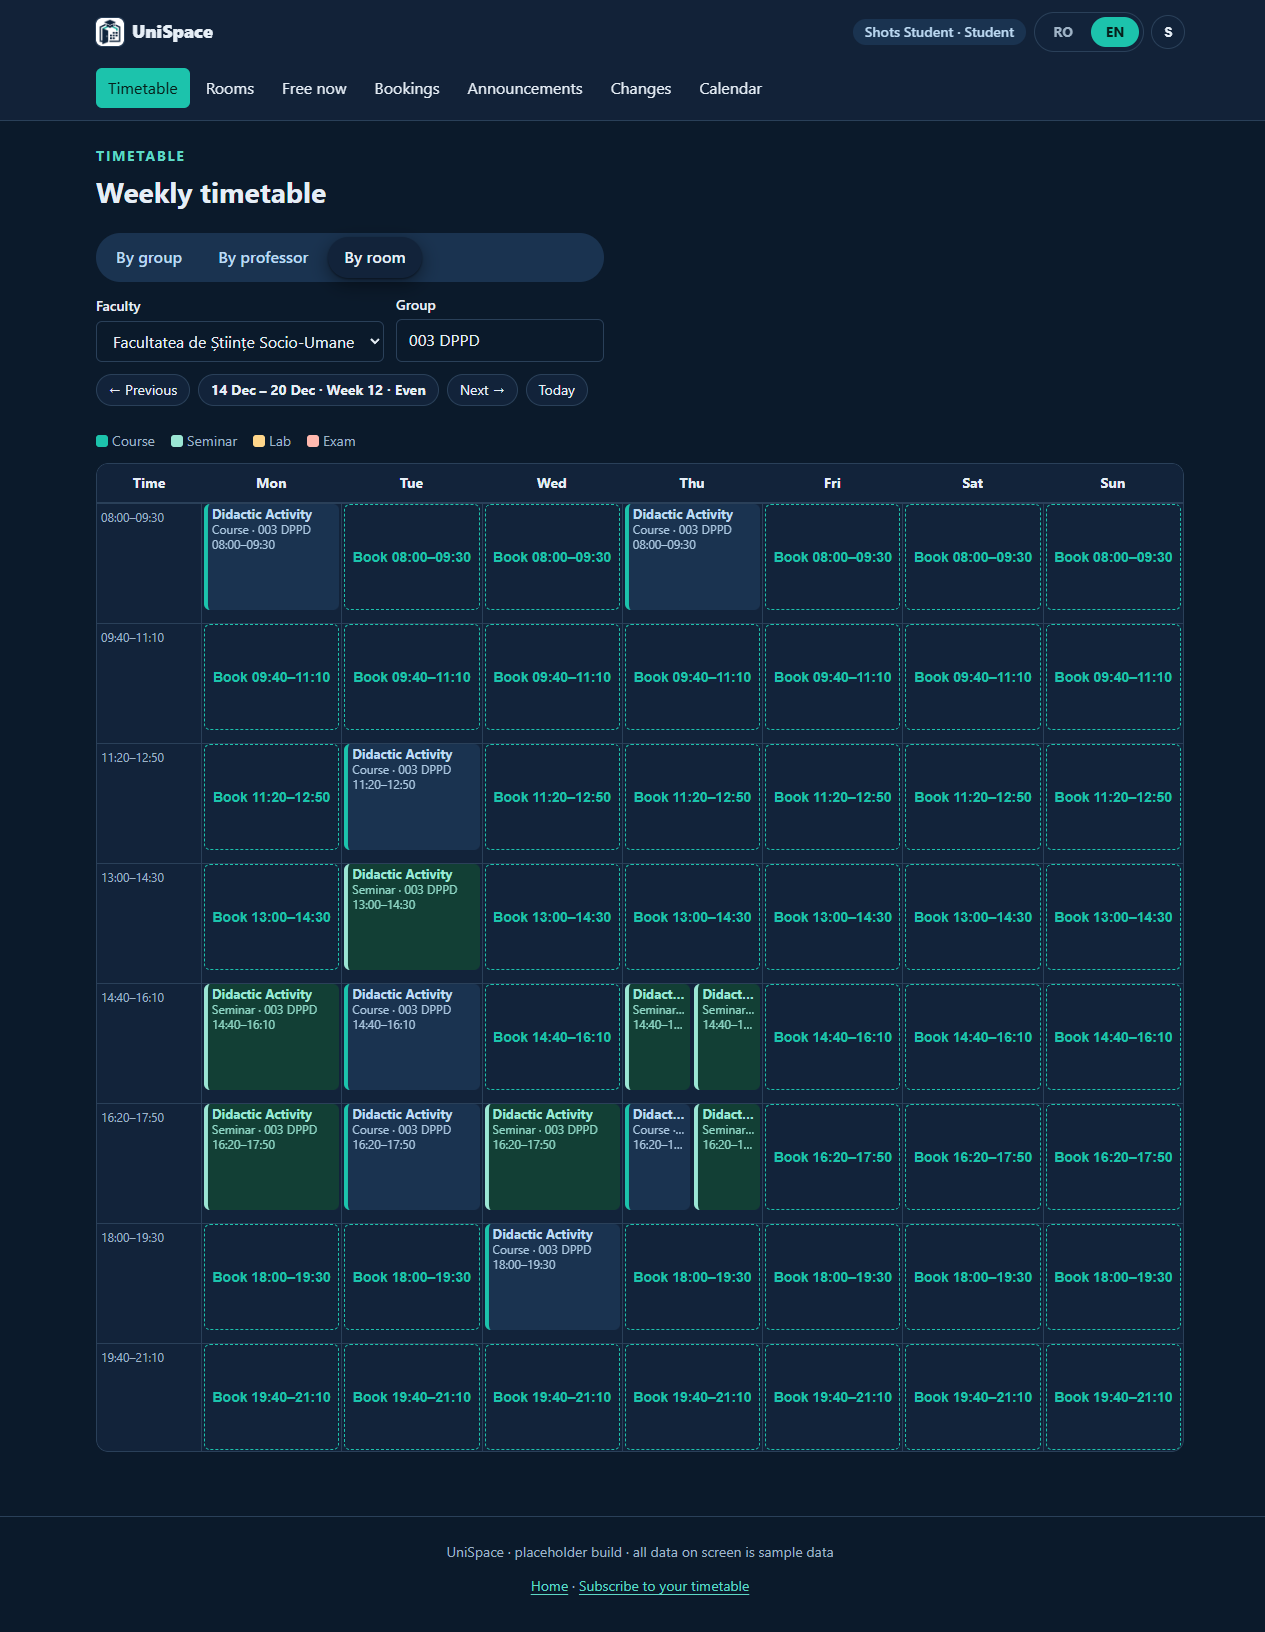
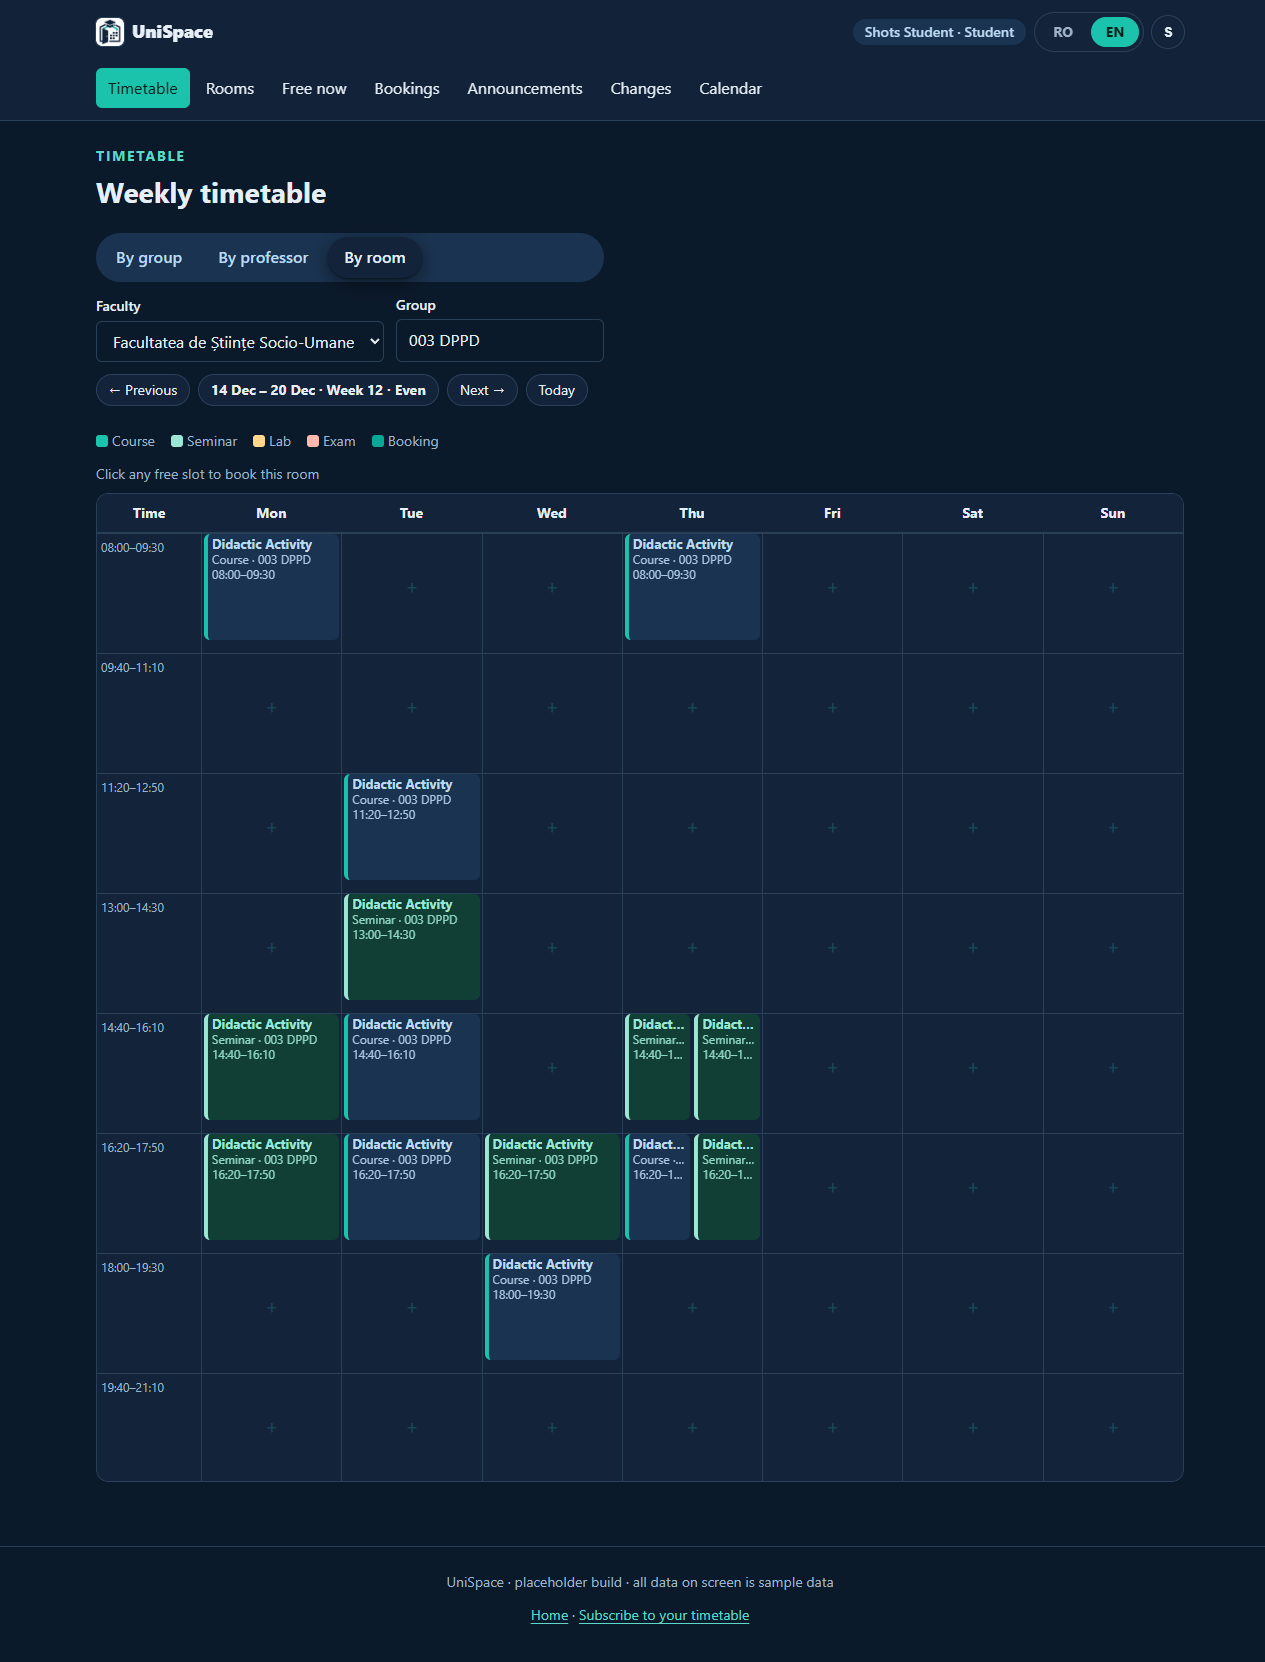
feat: polish room-view free slots and add timetable styling and i18n support

diff --git a/frontend/styles/components/timetable.css b/frontend/styles/components/timetable.css
@@ -223,25 +223,60 @@
 .legend__swatch--other { background: var(--color-danger-text); }
 .legend__swatch--booking { background: var(--color-accent); }
 
-/* A free module of a bookable room in the room view: a dashed box that opens the Bookings page. */
+/* A free module of a bookable room in the room view. Clean at rest: a faint plus. On hover or focus
+   it gets a soft tint and border, and the "+ Book" label. A past module is blank and cannot be clicked. */
 .tt-free {
   position: absolute;
   box-sizing: border-box;
   display: flex;
   align-items: center;
   justify-content: center;
-  padding: var(--space-1);
-  border: 1px dashed var(--color-primary);
+  padding: 0;
+  border: 1px solid transparent;
   border-radius: var(--radius-sm);
   background: transparent;
   color: var(--color-primary);
+  font: inherit;
   font-size: var(--text-sm);
   font-weight: 600;
   cursor: pointer;
+  transition: background-color 150ms ease, border-color 150ms ease;
 }
 
-.tt-free:hover {
-  background: var(--color-info-bg);
+.tt-free__plus,
+.tt-free__label {
+  transition: opacity 150ms ease;
+}
+
+.tt-free__plus {
+  font-size: var(--text-lg);
+  color: var(--color-slot-icon);
+}
+
+.tt-free__label {
+  position: absolute;
+  inset: 0;
+  display: flex;
+  align-items: center;
+  justify-content: center;
+  opacity: 0;
+  white-space: nowrap;
+}
+
+.tt-free:not(.tt-free--past):hover,
+.tt-free:not(.tt-free--past):focus-visible {
+  background: var(--color-slot-hover-bg);
+  border-color: var(--color-slot-hover-border);
+}
+
+.tt-free:not(.tt-free--past):hover .tt-free__plus,
+.tt-free:not(.tt-free--past):focus-visible .tt-free__plus {
+  opacity: 0;
+}
+
+.tt-free:not(.tt-free--past):hover .tt-free__label,
+.tt-free:not(.tt-free--past):focus-visible .tt-free__label {
+  opacity: 1;
 }
 
 .tt-free:focus-visible {
@@ -249,10 +284,13 @@
   outline-offset: 1px;
 }
 
-.tt-free:disabled {
-  border-style: solid;
-  border-color: var(--color-border);
-  color: var(--color-muted);
-  cursor: not-allowed;
-  background: transparent;
+.tt-free--past {
+  cursor: default;
+  background: var(--color-border);
+  opacity: 0.35;
+}
+
+.tt-hint {
+  margin: 0 0 var(--space-2);
+  font-size: var(--text-sm);
 }

diff --git a/frontend/tests/unit/timetable-free-slots.test.js b/frontend/tests/unit/timetable-free-slots.test.js
@@ -53,15 +53,19 @@ describe("timetable.js: free modules of a bookable room", () => {
 
     // 7 days x 8 modules, less the one Monday module that the course takes (09:40-11:10).
     expect(freeButtons()).toHaveLength(7 * 8 - 1);
-    const labels = freeButtons().map((b) => b.textContent);
-    expect(labels.filter((label) => label === "Book 09:40–11:10")).toHaveLength(6);
+    expect(document.getElementById("tt-hint").hidden).toBe(false);
+    const at0940 = freeButtons().filter((b) => b.getAttribute("aria-label").startsWith("Book 09:40–11:10"));
+    expect(at0940).toHaveLength(6);
+    expect(freeButtons().find((b) => !b.disabled).querySelector(".tt-free__label").textContent).toBe("+ Book");
   });
 
   it("disables the modules that have already started today", async () => {
     await setup();
 
     const disabled = freeButtons().filter((b) => b.disabled);
-    expect(disabled.map((b) => b.textContent)).toEqual(["Past"]);
+    expect(disabled).toHaveLength(1);
+    expect(disabled[0].classList.contains("tt-free--past")).toBe(true);
+    expect(disabled[0].getAttribute("aria-label")).toBe("Past");
   });
 
   it("opens the Bookings page for the room and the module that was clicked", async () => {
@@ -82,6 +86,7 @@ describe("timetable.js: free modules of a bookable room", () => {
     await setup({ bookable: false });
 
     expect(freeButtons()).toHaveLength(0);
+    expect(document.getElementById("tt-hint").hidden).toBe(true);
     expect(document.querySelectorAll(".tt-block")).toHaveLength(1);
   });
 });

diff --git a/frontend/js/pages/timetable.js b/frontend/js/pages/timetable.js
@@ -24,6 +24,7 @@
   var weekLabel = document.getElementById("tt-week-label");
   var dialog = document.getElementById("tt-dialog");
   var tabs = document.querySelectorAll("[role='tab'][data-mode]");
+  var bookHint = document.getElementById("tt-hint");
 
   var ENTITY_LABEL_KEYS = {
     group: "timetable.entityGroup",
@@ -270,8 +271,8 @@
           startMin: module.startMin,
           endMin: module.endMin,
           disabled: opens <= now,
-          label: opens <= now ? t("bookings.slotPast") : t("bookings.bookSlot", { range: range }),
-          ariaLabel: t("bookings.bookSlotAria", { range: range, day: t(dayKey) }),
+          label: t("bookings.bookSlotShort"),
+          ariaLabel: opens <= now ? t("bookings.slotPast") : t("bookings.bookSlotAria", { range: range, day: t(dayKey) }),
           onClick: function () {
             window.location.assign(window.UniSpaceBookings.link({
               faculty_id: state.facultyId, room: state.entity.id, date: iso, start: module.start, end: module.end
@@ -283,9 +284,10 @@
     return slots;
   }
 
-  // Callers draw only when there are items.
+  // Callers draw only when there are items. The helper line shows for a bookable room only.
   function drawGrid() {
     grid.render(gridElement, state.items, openDetails, freeSlots());
+    bookHint.hidden = !(state.mode === "room" && state.entity && state.entity.bookable);
   }
 
   function openDetails(item) {

diff --git a/frontend/tests/unit/grid-free-slots.test.js b/frontend/tests/unit/grid-free-slots.test.js
@@ -26,7 +26,9 @@ describe("grid.js: free modules of a bookable room", () => {
     const button = container.querySelector(".tt-free");
     expect(button.tagName).toBe("BUTTON");
     expect(button.type).toBe("button");
-    expect(button.textContent).toBe("Book 10:00–11:30");
+    expect(button.querySelector(".tt-free__plus").textContent).toBe("+");
+    expect(button.querySelector(".tt-free__plus").getAttribute("aria-hidden")).toBe("true");
+    expect(button.querySelector(".tt-free__label").textContent).toBe("Book 10:00–11:30");
     expect(button.getAttribute("aria-label")).toBe("Book 10:00–11:30, Tue");
     expect(button.disabled).toBe(false);
     expect(button.parentElement.classList.contains("tt-day")).toBe(true);
@@ -44,6 +46,8 @@ describe("grid.js: free modules of a bookable room", () => {
 
     const button = container.querySelector(".tt-free");
     expect(button.disabled).toBe(true);
+    expect(button.classList.contains("tt-free--past")).toBe(true);
+    expect(button.textContent).toBe("");
     expect(button.hasAttribute("aria-label")).toBe(false);
     button.click();
     expect(onClick).not.toHaveBeenCalled();

diff --git a/frontend/js/grid.js b/frontend/js/grid.js
@@ -126,9 +126,19 @@
     }
 
     (freeSlots || []).forEach(function (slot) {
-      var button = element("button", "tt-free", slot.label);
+      // A free slot is blank until it is hovered or focused, when its label appears (see timetable.css).
+      // A past slot is blank and cannot be clicked.
+      var button = element("button", "tt-free");
       button.type = "button";
       button.disabled = Boolean(slot.disabled);
+      if (slot.disabled) {
+        button.classList.add("tt-free--past");
+      } else {
+        var plus = element("span", "tt-free__plus", "+");
+        plus.setAttribute("aria-hidden", "true");
+        button.appendChild(plus);
+        button.appendChild(element("span", "tt-free__label", slot.label));
+      }
       if (slot.ariaLabel) button.setAttribute("aria-label", slot.ariaLabel);
       placeBlock(button, { startMin: slot.startMin, endMin: slot.endMin, lane: 0, lanes: 1 });
       button.addEventListener("click", slot.onClick);

diff --git a/frontend/styles/tokens.css b/frontend/styles/tokens.css
@@ -29,6 +29,9 @@
   --color-info-bg: #dbe7f2;
   --color-info-text: #1d3f63;
   --color-shadow: rgb(14 36 60 / 0.08);
+  --color-slot-hover-bg: rgb(45 212 191 / 0.08);
+  --color-slot-hover-border: rgb(45 212 191 / 0.35);
+  --color-slot-icon: rgb(45 212 191 / 0.2);
 }
 
 @media (prefers-color-scheme: dark) {
@@ -54,6 +57,9 @@
     --color-info-bg: #1a3350;
     --color-info-text: #bcd9f2;
     --color-shadow: rgb(0 0 0 / 0.45);
+    --color-slot-hover-bg: rgb(45 212 191 / 0.08);
+    --color-slot-hover-border: rgb(45 212 191 / 0.35);
+    --color-slot-icon: rgb(45 212 191 / 0.2);
   }
 }
 
@@ -79,6 +85,9 @@
   --color-info-bg: #1a3350;
   --color-info-text: #bcd9f2;
   --color-shadow: rgb(0 0 0 / 0.45);
+  --color-slot-hover-bg: rgb(45 212 191 / 0.08);
+  --color-slot-hover-border: rgb(45 212 191 / 0.35);
+  --color-slot-icon: rgb(45 212 191 / 0.2);
 }
 
 :root {

diff --git a/frontend/i18n/ro.js b/frontend/i18n/ro.js
@@ -244,8 +244,8 @@ window.UniSpaceI18n.register("ro", {
   "bookings.sentApproved": "Rezervarea a fost aprobată.",
   "bookings.statusPending": "În așteptare",
   "bookings.statusRejected": "Respinsă",
-  "bookings.bookSlot": "Rezervă {range}",
   "bookings.bookSlotAria": "Rezervă {range}, {day}",
+  "bookings.bookSlotShort": "+ Rezervă",
   "bookings.slotPast": "Trecut",
   "bookings.bookRoom": "Rezervă sala",
   "bookings.bookRoomAria": "Rezervă sala {name}",
@@ -346,6 +346,7 @@ window.UniSpaceI18n.register("ro", {
   "timetable.gridAria": "Orar săptămânal",
   "timetable.time": "Ora",
   "timetable.legendAria": "Legendă",
+  "timetable.bookHint": "Apasă pe un interval liber ca să rezervi sala.",
   "timetable.close": "Închide",
   "timetable.room": "Sală",
   "timetable.professor": "Profesor",

diff --git a/frontend/i18n/en.js b/frontend/i18n/en.js
@@ -243,8 +243,8 @@ window.UniSpaceI18n.register("en", {
   "bookings.sentApproved": "The booking was approved.",
   "bookings.statusPending": "Pending",
   "bookings.statusRejected": "Rejected",
-  "bookings.bookSlot": "Book {range}",
   "bookings.bookSlotAria": "Book {range}, {day}",
+  "bookings.bookSlotShort": "+ Book",
   "bookings.slotPast": "Past",
   "bookings.bookRoom": "Book this room",
   "bookings.bookRoomAria": "Book room {name}",
@@ -345,6 +345,7 @@ window.UniSpaceI18n.register("en", {
   "timetable.gridAria": "Weekly timetable",
   "timetable.time": "Time",
   "timetable.legendAria": "Legend",
+  "timetable.bookHint": "Click any free slot to book this room",
   "timetable.close": "Close",
   "timetable.room": "Room",
   "timetable.professor": "Professor",

diff --git a/frontend/pages/student/timetable.html b/frontend/pages/student/timetable.html
@@ -58,6 +58,7 @@
           <span><span class="legend__swatch legend__swatch--other"></span><span data-i18n="kind.exam">Examen</span></span>
           <span><span class="legend__swatch legend__swatch--booking"></span><span data-i18n="kind.booking">Rezervare</span></span>
         </div>
+        <p class="muted tt-hint" id="tt-hint" hidden data-i18n="timetable.bookHint">Apasă pe un interval liber ca să rezervi sala.</p>
         <div class="table-wrap tt-scroll">
           <div class="tt-grid" id="tt-grid" role="grid" data-i18n-attr="aria-label:timetable.gridAria" aria-label="Orar săptămânal"></div>
         </div>

diff --git a/AI_LOG.md b/AI_LOG.md
@@ -18,6 +18,17 @@ What I got:
 - Contract C-005 added; C-003 change note added; Q-017 opened for cancelled and moved occurrences, which the shared helper ignores.
 What I did with it: on branch `feature/student-room-booking`. Backend 142 passed, ETL 113, frontend 252. `docker compose config` and `docker compose build backend` pass. Not committed or pushed. The Bookings page move to `pages/shared` is not done in this step.
 
+## 2026-11-24 · Free-slot polish in the room view
+Tool: Claude Code (Haiku 5.5), build
+What I asked: make the room-view free slots clean and modern: no border or text at rest (a faint plus), a 150ms hover with a tint, border and a + Book label; past slots blank and dimmed; a muted helper line above the grid for a bookable room.
+What I got:
+- Tokens: `--color-slot-hover-bg`, `--color-slot-hover-border`, `--color-slot-icon` in tokens.css (all three theme blocks). The hover values are your rgba values, now tokens (DESIGN.md: no raw colours in components).
+- `frontend/styles/components/timetable.css`: resting, hover and focus, past, and hint styles. `grid.js`: plus and label spans; past slots blank. `timetable.js`: label "+ Book", past name "Past", helper line `#tt-hint` shown for a bookable room.
+- i18n: bookings.bookSlotShort, timetable.bookHint; bookings.bookSlot removed (unused).
+- Tests updated for the new structure (grid-free-slots, timetable-free-slots) and the helper line checked.
+- Screenshots refreshed: docs/design/screens/DS-unispace-timetable-grid.{light,dark}.png (resting state only; hover not captured).
+What I did with it: on branch `feature/student-room-booking`. All suites pass: 565 (backend 152, ETL 113, frontend 300). Not committed or pushed.
+
 ## 2026-11-24 · Approved bookings shown in the room timetable
 Tool: Claude Code (Haiku 5.5), build
 What I asked: once approved, a booking should appear in the timetable.
